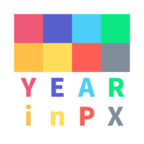
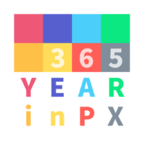
로고 변경 및 삽입, 데스크탑 안내문구 삽입

Changed region(s): [[0.75, 0.3333, 0.8611, 0.4722], [0.5278, 0.3333, 0.6667, 0.4722], [0.3333, 0.3333, 0.4722, 0.4722]]

diff --git a/YearInPixels/wwwroot/css/site.css b/YearInPixels/wwwroot/css/site.css
@@ -47,3 +47,7 @@ body, input, textarea, pre, q, blockquote {
     margin-right: -1px;
     font-size: 12px;
 }
+
+[v-cloak] {
+    display: none;
+}
